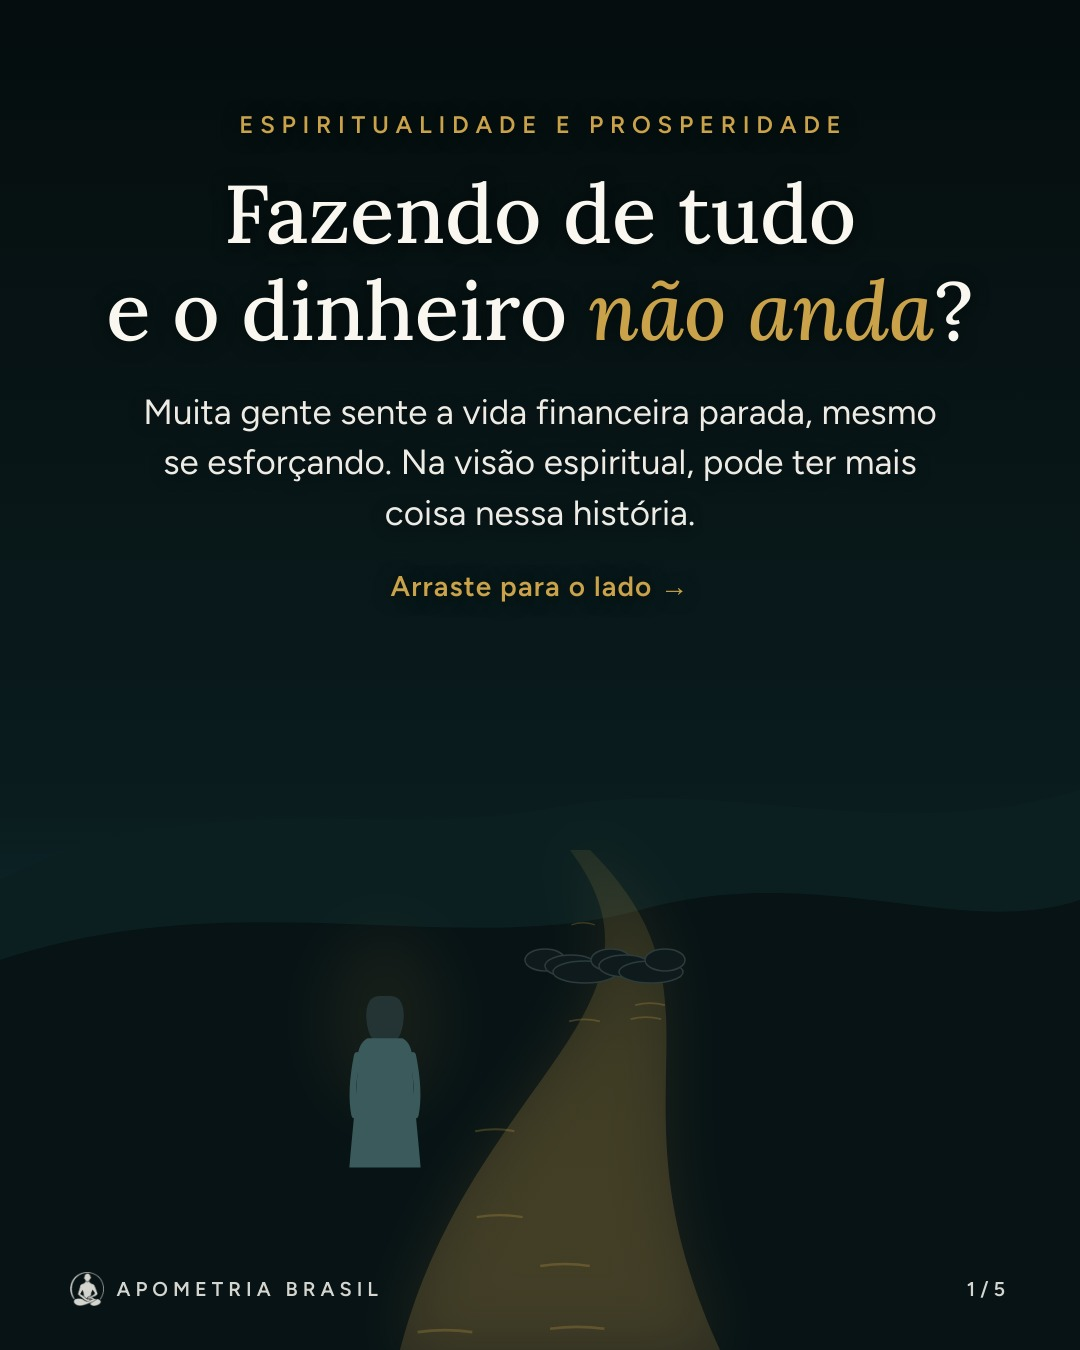
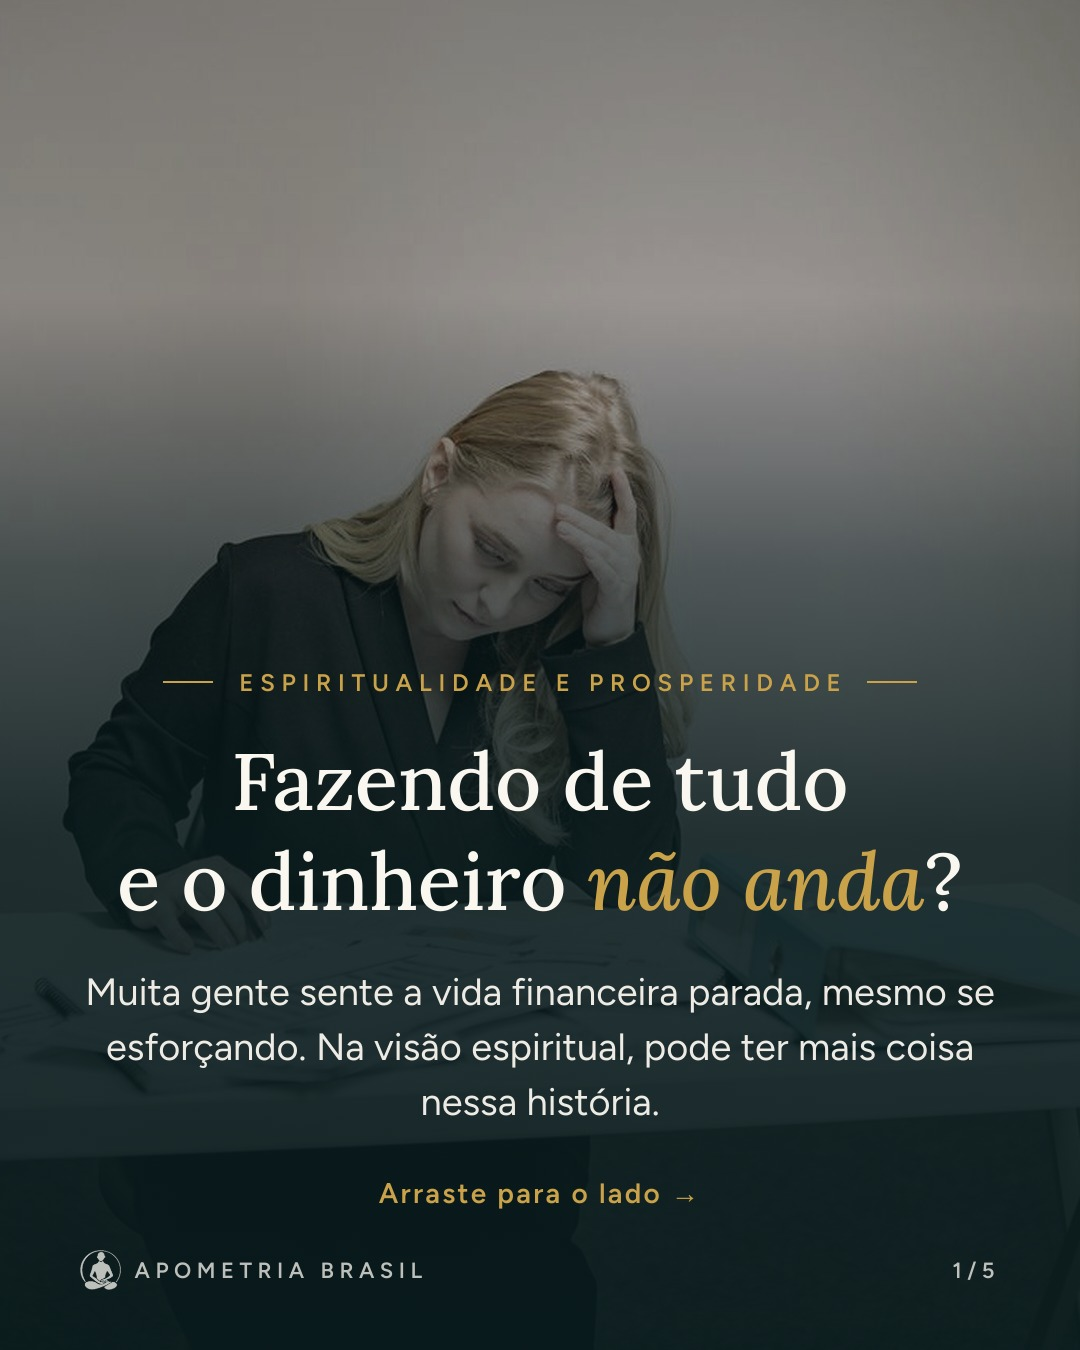
Volta ao modelo anterior: fábrica de agentes cancelada; carrossel de prosperidade refeito com fotos reais no modelo do alcoolismo
Claude-Session: https://claude.ai/code/session_01JEWNugGqZtfRNNpR6FEnd2

diff --git a/CLAUDE.md b/CLAUDE.md
@@ -8,7 +8,8 @@ A responsável (Andressa) não é desenvolvedora. Explique em linguagem simples 
 Nunca peça senhas, tokens ou chaves pelo chat. Se aparecer um segredo no chat, avise que ficou exposto.
 
 ## Como trabalhar aqui
-- Pedido de post/carrossel/Reels para uma marca → use a skill **produzir** (o Maestro) e siga as etapas. Não escreva a peça sem passar pelos agentes e juízes.
+- ⛔ **A fábrica de vários agentes (Maestro, Sonda, Lupa etc.) foi CANCELADA pela responsável em 23/11/2026.** Não usar a skill `produzir` nem os agentes de `.claude/agents/` (ficam só como arquivo).
+- **Modo de trabalho atual (o de antes):** o Claude escreve direto seguindo o kit da marca, usa fotos reais do Pexels (escuro → claro em temas difíceis), monta no modelo `modelos/remotion` (composição `Carrossel`, igual ao carrossel do alcoolismo de 14/11/2026) e mostra para a responsável aprovar.
 - Antes de criar qualquer coisa para uma marca, leia o kit em `marcas/<marca>/` (principalmente `regras.md` e `aprendizados.md`).
 - Toda correção da responsável vira uma linha em `marcas/<marca>/aprendizados.md` (e em `regras.md`, se for proibição).
 - Critérios dos juízes: `docs/criterios.md`. Formatos dos arquivos: `docs/formatos.md`. Arquitetura: `docs/arquitetura.md`.

diff --git a/marcas/apometria-brasil/aprendizados.md b/marcas/apometria-brasil/aprendizados.md
@@ -23,3 +23,4 @@ Os agentes leem este arquivo antes de criar.
 | 15/11/2026 | Direção geral | Juiz para não gastar crédito à toa nas gerações | Sim: aprovação do comando visual antes de gerar |
 | 15/11/2026 | Direção geral | Pode usar imagens/vídeos que já existem na internet só quando o assunto for muito interessante e informativo | Sim, respeitando direitos de uso |
 | 23/11/2026 | Direção geral | **vidIQ só para pesquisa**; criação de imagens e vídeos no **Gemini** (no navegador dela) | Sim: agentes entregam comandos para o Gemini; ela gera e salva no Drive |
+| 23/11/2026 | Carrossel prosperidade | Achou "horrível" a versão ilustrada em código; **cancelou o sistema de vários agentes** e pediu para voltar ao modelo do carrossel do alcoolismo (fotos reais + faixa da marca) | Sim: padrão volta a ser o de 14/11 |

diff --git a/docs/continuidade.md b/docs/continuidade.md
@@ -1,5 +1,8 @@
 # Continuidade · Fábrica de Conteúdo (atualizado 23/11/2026)
 
+> ⛔ **23/11/2026: a responsável CANCELOU o sistema de vários agentes.** Voltar ao modo direto (o Claude escreve seguindo o kit, fotos reais do Pexels, modelo `Carrossel` igual ao do alcoolismo). O resto deste documento é histórico.
+
+
 **Para retomar numa sessão nova, peça:**
 > "Leia `docs/continuidade.md` e continue a partir dele."
 
